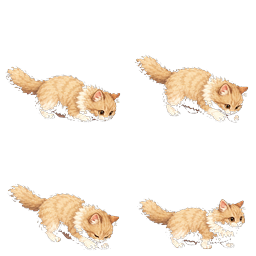
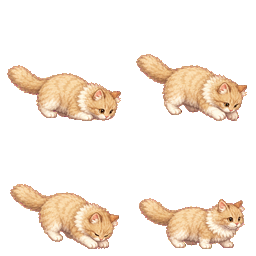
Fix digging sprite transparency

diff --git a/docs/index.html b/docs/index.html
@@ -53,6 +53,6 @@
       <canvas id="game" width="1024" height="768"></canvas>
       <div class="status" id="status"></div>
     </main>
-    <script src="game.js?v=7"></script>
+    <script src="game.js?v=8"></script>
   </body>
 </html>

diff --git a/README.md b/README.md
@@ -15,6 +15,7 @@ Controls: tap/click to move, tap suspicious dirt to dig, or use WASD / arrow key
 Buried collectible spots are randomized each time the page reloads.
 Found item names are shown in Japanese.
 The cat switches to a short digging animation before each item is revealed.
+The digging sheet uses a solid alpha matte so it stays readable over the map.
 
 ## GitHub Pages
 